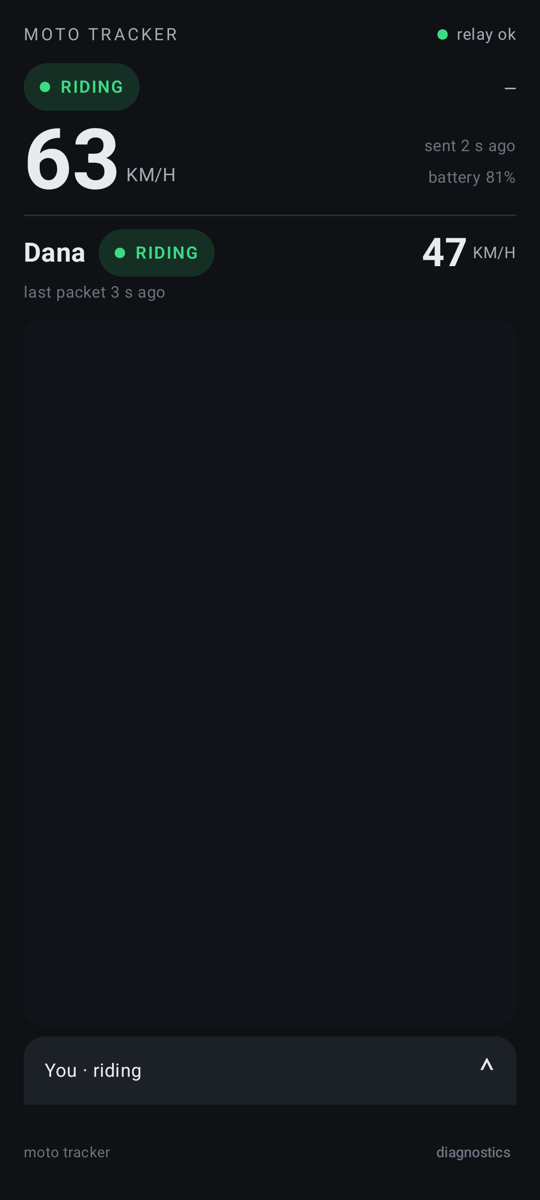
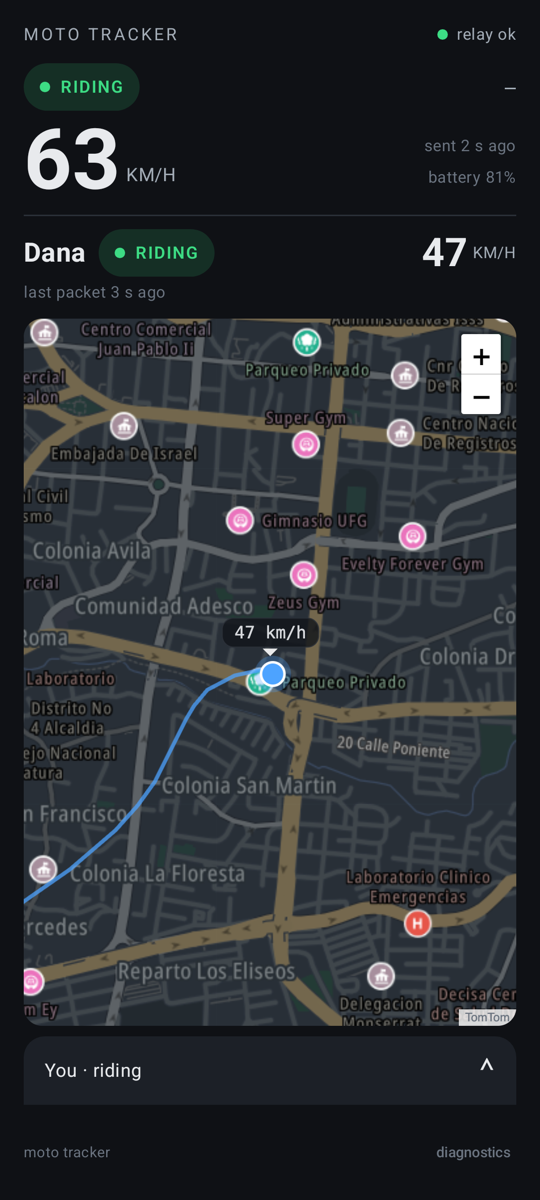
Show maps in the Android screenshots; animate Rider mode

diff --git a/README.md b/README.md
@@ -56,11 +56,12 @@ the demo route.
 
 | Rider Mode | Observer Mode | Hybrid Mode |
 |:---:|:---:|:---:|
-| ![Rider](docs/screenshots/android-rider.png) | ![Observer](docs/screenshots/android-observer.png) | ![Hybrid](docs/screenshots/android-hybrid.png) |
-| This phone is on a trip | The other rider is out, and this phone watches | Both riders are out at once |
+| ![Rider](docs/screenshots/android-rider.gif) | ![Observer](docs/screenshots/android-observer.png) | ![Hybrid](docs/screenshots/android-hybrid.png) |
+| This phone is on a trip. The road runs at the speed being ridden | The other rider is out, and this phone watches | Both riders are out at once |
 
-*The Android screenshots come from an automated layout test on made-up data, so the
-map area is blank. In real use it shows a live map.*
+*The Android images come from the app's automated layout test on made-up data. The
+maps and the road animation were added afterwards, drawn by the app's own map page
+and scene code.*
 
 ## How it fits together
 
